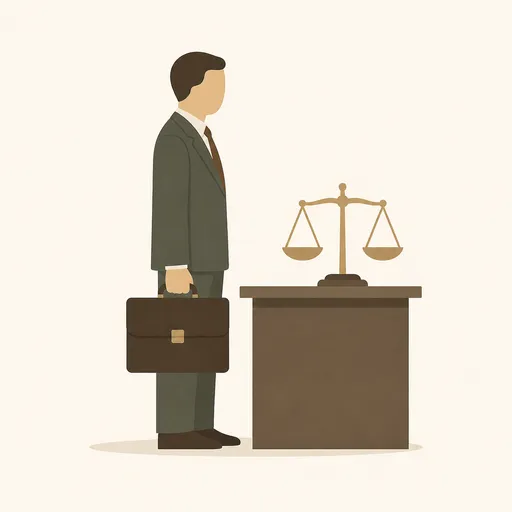
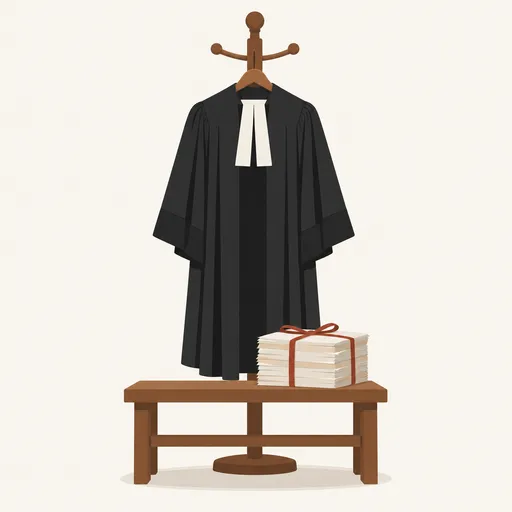
content(그림): 넘겨 둔 여덟을 창이 닫히기 전에 줍는다 — 저울 22 → 10
pnpm pending --free가 열여덟이 다 열려 있다고 해서 그 자리에서 여덟을 끝냈다.
돌고 나니 열일곱이 다시 다 「남이 만지는 중」이 됐다.

저울로 도망친 일곱에 빈 몸통을 붙였다. 고르기 전에 pnpm props로 후보를 걸러
dice · receipt · lectern · auction · trophy · hourglass · funnel · cushion ·
wreath · dial · gauge · keyhole · basket · awning이 이미 남의 몸통인 것을
확인하고 남은 것으로 갔다.

    quality/whether                ~인지            빈 상 위에서 아직 도는 팽이
    quality/fit-to-receive-it      받을 만한         항아리 밑동 꼴로 파인 빈 주춧돌
    quality/dear-to-pay-for        값이 많이 드는     동전이 쏟아져 넘치는 들통
    idea/as-the-money-goes         돈 쪽으로         동전 쪽으로 돌아간 바람개비
    office/saying-it-as-it-is      있는 그대로 말하다  벽에 곧게 드리운 다림줄
    city/the-market-worth-of-it    저자에서 매겨진 값  저자 광주리에 기댄 빈 석판과 동전
    job/lawyer                     변호사           걸개의 검은 법복과 묶인 서류 뭉치

    pnpm props balance   그림에 나온 것 22 → 10

남은 열은 저울이 맞는 일곱에 justice · sense-of-proportion ·
weighty-enough-to-tip-the-scale를 더한 것이다. 셋 다 저울이 곧 그 개념이라
그대로 둔다.

school/paperclip도 끝냈다. 클립이 종이 두 장을 물고 있어 화면을 종이가
차지하는 바람에 exam-paper와 54였다. 종이를 빼고 클립 하나만 비스듬히 두니
122가 됐다.

    paperclip          ↔ exam-paper         54 → 122
    whether            ↔ supply-and-demand  구조 133 · 색 1.568
    lawyer             ↔ justice            구조 113 · 색 2.313
    as-the-money-goes  ↔ justice            구조 125 · 색 0.902
    pnpm twins                              9732장 — 0쌍

docs/twins-pending.md의 해당 자리를 끝난 것으로 표시했다.

pnpm check 통과.

diff --git a/docs/twins-pending.md b/docs/twins-pending.md
@@ -163,7 +163,7 @@
 
 | 쌍 | 거리 | 무엇이 문제인가 | 옮길 쪽과 갈래 |
 | --- | ---: | --- | --- |
-| `school/paperclip`(클립)<br>`school/exam-paper`(시험지) | 54 · 0.19 | 클립 그림이 **종이 두 장을 물고 있어** 화면을 종이가 차지한다. `exam-paper`가 줄 쳐진 종이의 임자다 | **`paperclip`을 옮긴다** — 종이를 빼고 클립 하나만. 금속의 굽이가 보이게 비스듬히 |
+| ~~`school/paperclip`(클립)<br>`school/exam-paper`(시험지)~~ | 54 → **122** | 클립 그림이 **종이 두 장을 물고 있어** 화면을 종이가 차지했다 | **끝냈다 (2026-09-21)** — 종이를 빼고 클립 하나만 비스듬히 두니 54가 122가 됐다 |
 | ~~`body/cornea`<br>`body/retina`~~ | 57 → **115** | 둘 다 **안구 단면**이고 강조한 층만 다르다. 80×80에서는 강조가 안 보인다 | **끝냈다** — 눈 전체가 아니라 **앞쪽만 크게 잘라** 돔이 화면을 채운다. 배율을 바꾸니 구도부터 갈렸다 |
 | ~~`sport/cycling`(사이클)<br>`sport/cyclist`(사이클 선수)~~ | 50 → **136** | 둘 다 경주 자전거에 탄 인물 하나를 옆에서 봤다 | **끝냈다** — `cycling`을 여섯이 정면으로 줄지어 오는 무리로. `bicycle` 113 · `marathon` 109 |
 
@@ -483,12 +483,35 @@ cake · crate · hanger). 저울 무리를 만든 것과 똑같은 실수를 되
 `weighty-enough-to-tip-the-scale`(한쪽으로 판가름하다)은 저울이 곧 그
 관용구다. `fair-and-just`는 `justice`와 「수평인 저울」로 겹쳐서 옮겼다.
 
-**남은 일곱은 자리를 못 찾았다** — `whether` · `fit-to-receive-it` ·
-`dear-to-pay-for` · `as-the-money-goes` · `saying-it-as-it-is` ·
-`the-market-worth-of-it` · `lawyer`이다. 그릴 몸통 후보가 죄다 남의 것이라
-빈 낱말을 더 뒤져야 한다. **먼저 `pnpm props`로 후보를 거르고 쓸 것.**
+#### 남은 일곱도 옮겼다 — 저울 22 → 10 (2026-09-21)
 
-옮긴 여섯 가운데 다섯은 이미 그려져 있어 다시 뽑아야 한다.
+「자리를 못 찾았다」고 넘겨 둔 일곱을 `pnpm pending --free`가 열려 있다고
+알려 줘 그 자리에서 끝냈다. **빈 낱말을 먼저 열둘 거르고 골랐다** — 후보
+가운데 dice · receipt · lectern · auction · trophy · hourglass · funnel ·
+cushion · wreath · dial · gauge · keyhole · basket · awning이 이미 남의
+몸통이었고, 남은 것으로 갔다.
+
+| 개념 | 뜻 | 옮긴 그림 |
+| --- | --- | --- |
+| `quality/whether` | ~인지 | 빈 상 위에서 아직 도는 팽이 |
+| `quality/fit-to-receive-it` | 받을 만한 | 곁에 선 항아리 밑동 꼴로 파인 빈 주춧돌 |
+| `quality/dear-to-pay-for` | 값이 많이 드는 | 놋 물꼭지에서 동전이 쏟아져 넘치는 들통 |
+| `idea/as-the-money-goes` | 돈 쪽으로 | 화살이 동전 무더기 쪽으로 돌아간 바람개비 |
+| `office/saying-it-as-it-is` | 있는 그대로 말하다 | 벽에 곧게 드리운 다림줄 |
+| `city/the-market-worth-of-it` | 저자에서 매겨진 값 | 저자 광주리에 기댄 빈 석판과 동전 |
+| `job/lawyer` | 변호사 | 걸개에 걸린 검은 법복과 끈으로 묶인 서류 뭉치 |
+
+    pnpm props balance   그림에 나온 것 22 → 10
+
+남은 열은 저울이 맞는 일곱에 `justice` · `sense-of-proportion` ·
+`weighty-enough-to-tip-the-scale`가 더해진 것이다. 셋 다 저울이 곧 그
+개념이라 그대로 둔다.
+
+저울 허브와 맞대 재니 다 멀다 — `whether`↔`supply-and-demand` 133 ·
+`lawyer`↔`justice` 113 · `as-the-money-goes`↔`justice` 125다.
+
+**옮긴 여섯은 임자가 이미 다시 뽑아 두었다.** 곳간과 빈 수레 · 확대경과 돌 ·
+모루와 편자 · 눈 위 발자국 · 수평인 시소 · 쐐기로 기운 상이 다 들어 있다.
 
 내 파일이 아니라 넘긴다. 고칠 때는 [IMAGE_STYLE](../IMAGE_STYLE.md)의 「장면을
 찾는 다섯 수」를 쓴다 — 저울은 「견주다」의 그림이지 「수급」의 그림이 아니다.
